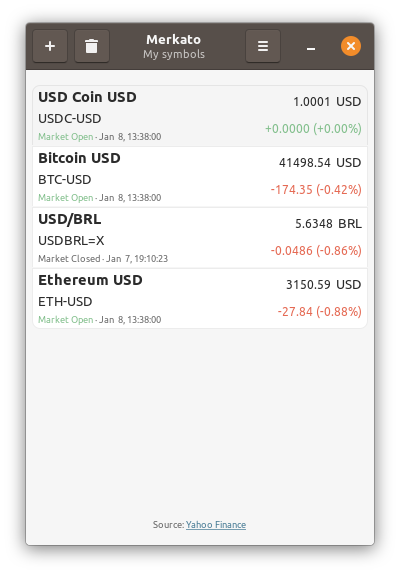
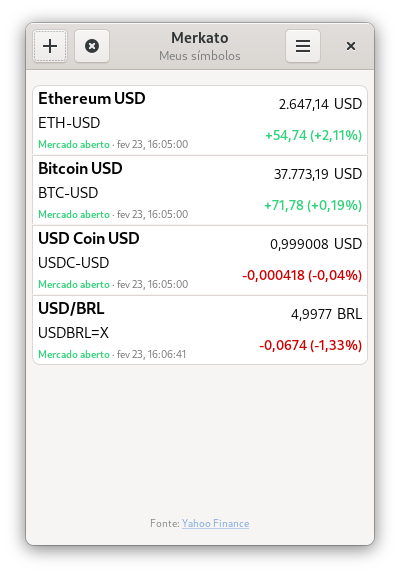
CSS and Code header updates

diff --git a/data/ui/Application.css b/data/ui/Application.css
@@ -1,26 +1,21 @@
-* {
-    font-family: Ubuntu;
-    font-style: normal;
-}
-
 .market_open {
     color: @success_color;
-    /* font-weight: 600; */
+    font-weight: 600;
 }
 
 .market_close {
-    /* color: @error_color; */
-    /* font-weight: 600; */
+    color: @error_color;
+    font-weight: 600;
 }
 
 .profit {
     color: @success_color;
-    /* font-weight: 600; */
+    font-weight: 600;
 }
 
 .loss {
     color: @error_color;
-    /* font-weight: 600; */
+    font-weight: 600;
 }
 
 .text-lg {
